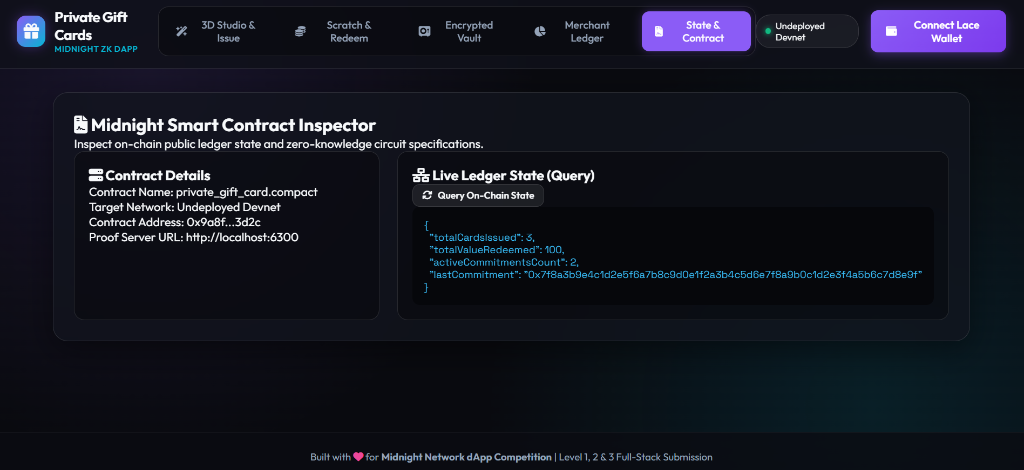
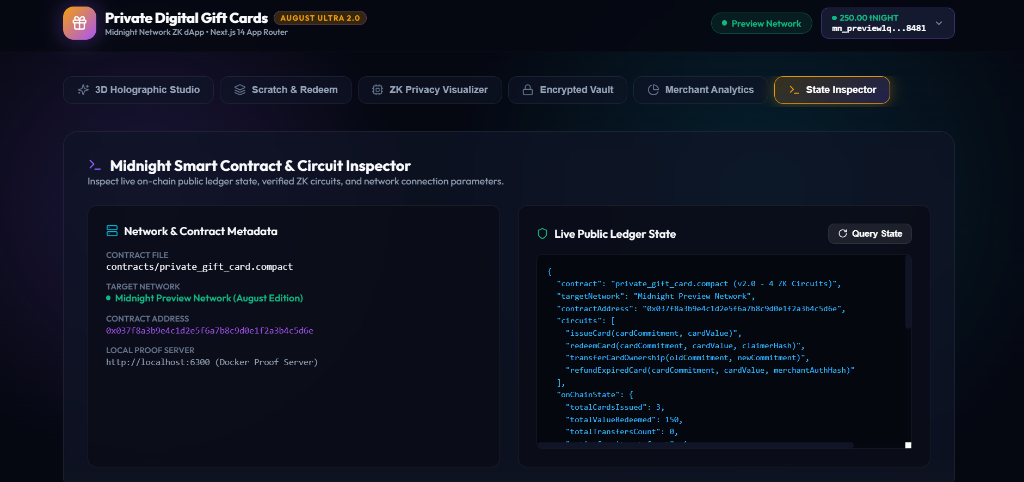
docs: update Midnight Smart Contract & Circuit Inspector screenshot and heading

diff --git a/README.md b/README.md
@@ -40,8 +40,8 @@
 ### 5. Merchant Analytics & Voucher Ledger
 ![Merchant Analytics & Voucher Ledger](assets/04-merchant-ledger.png)
 
-### 6. Midnight Smart Contract Inspector
-![State & Contract Inspector](assets/05-state-contract.png)
+### 6. Midnight Smart Contract & Circuit Inspector
+![Midnight Smart Contract & Circuit Inspector](assets/05-state-contract.png)
 
 ---
 
